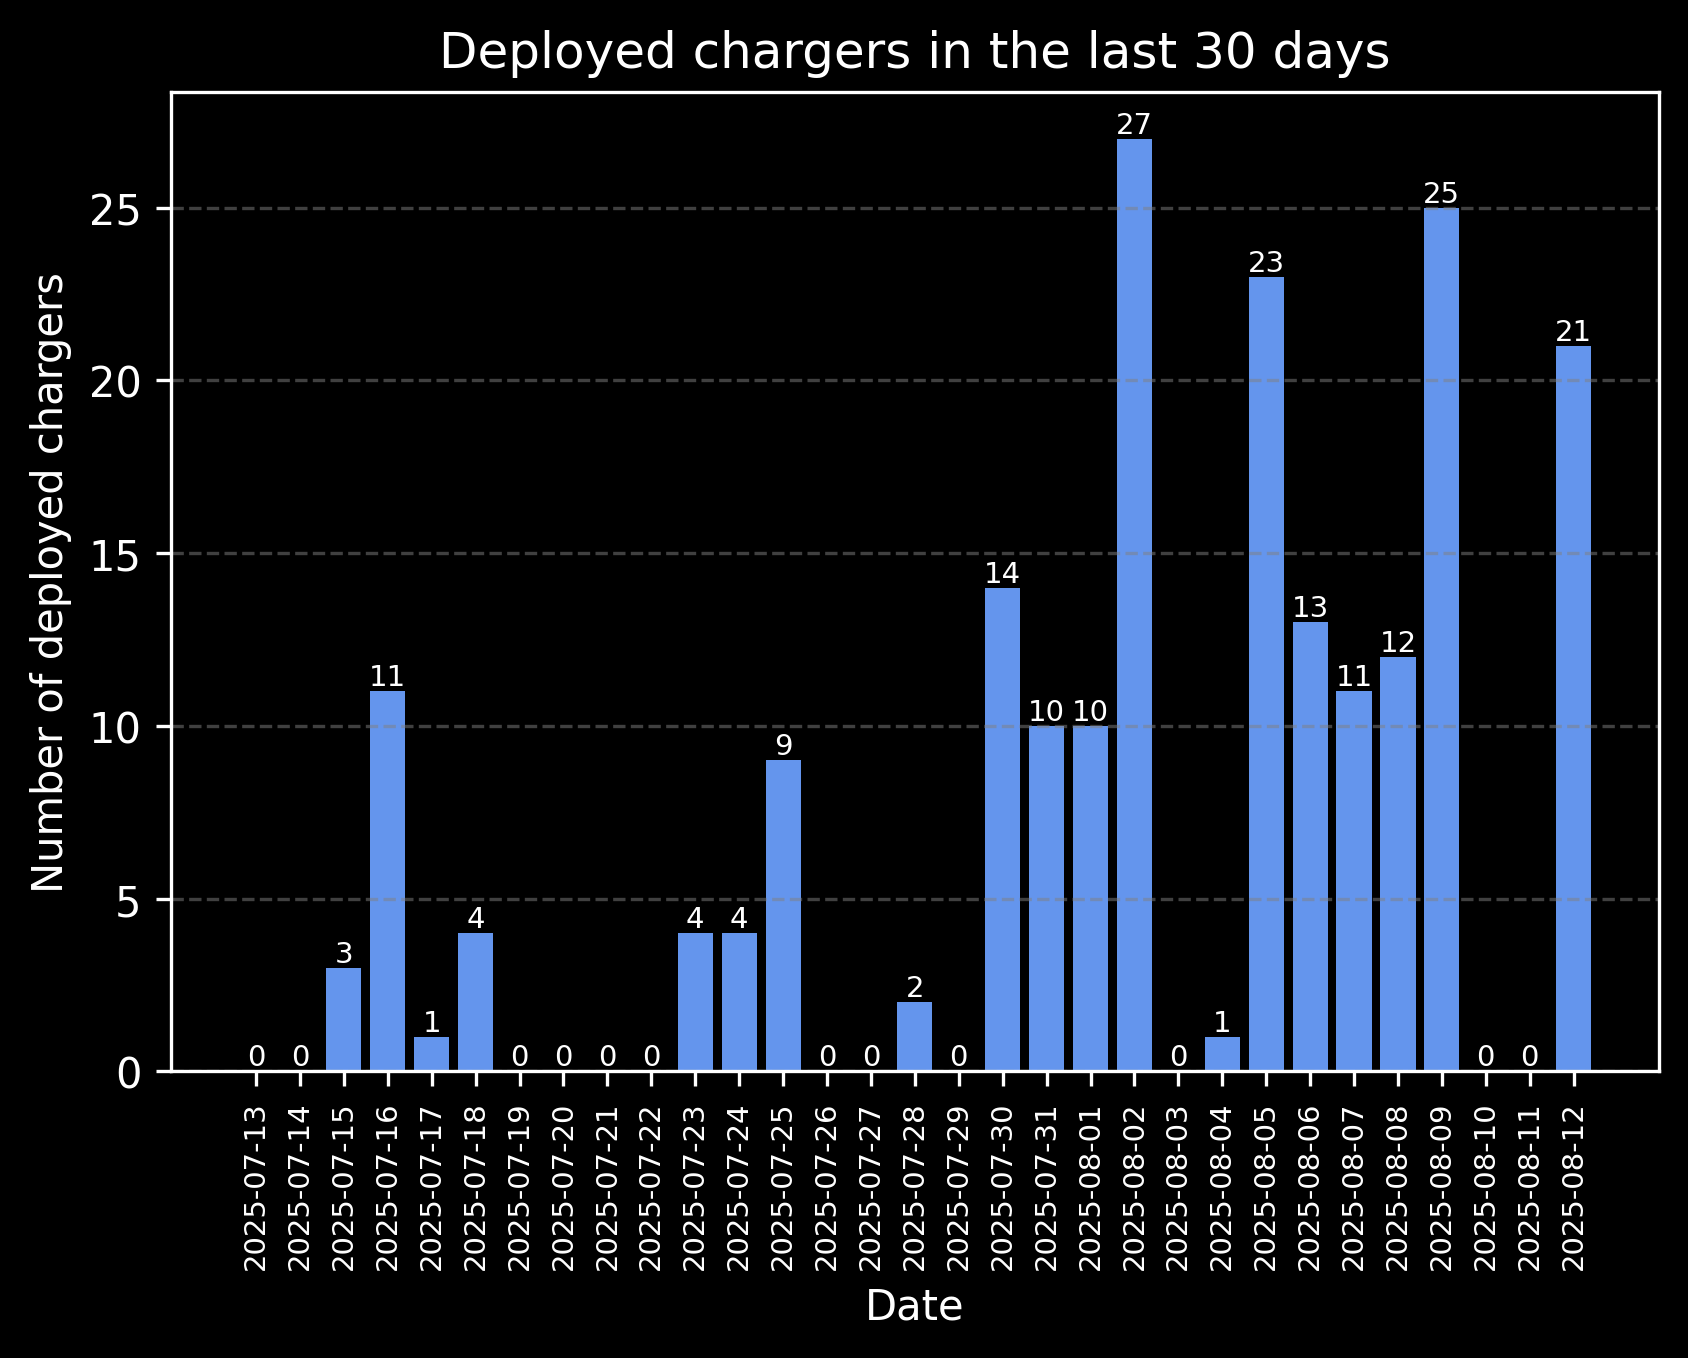
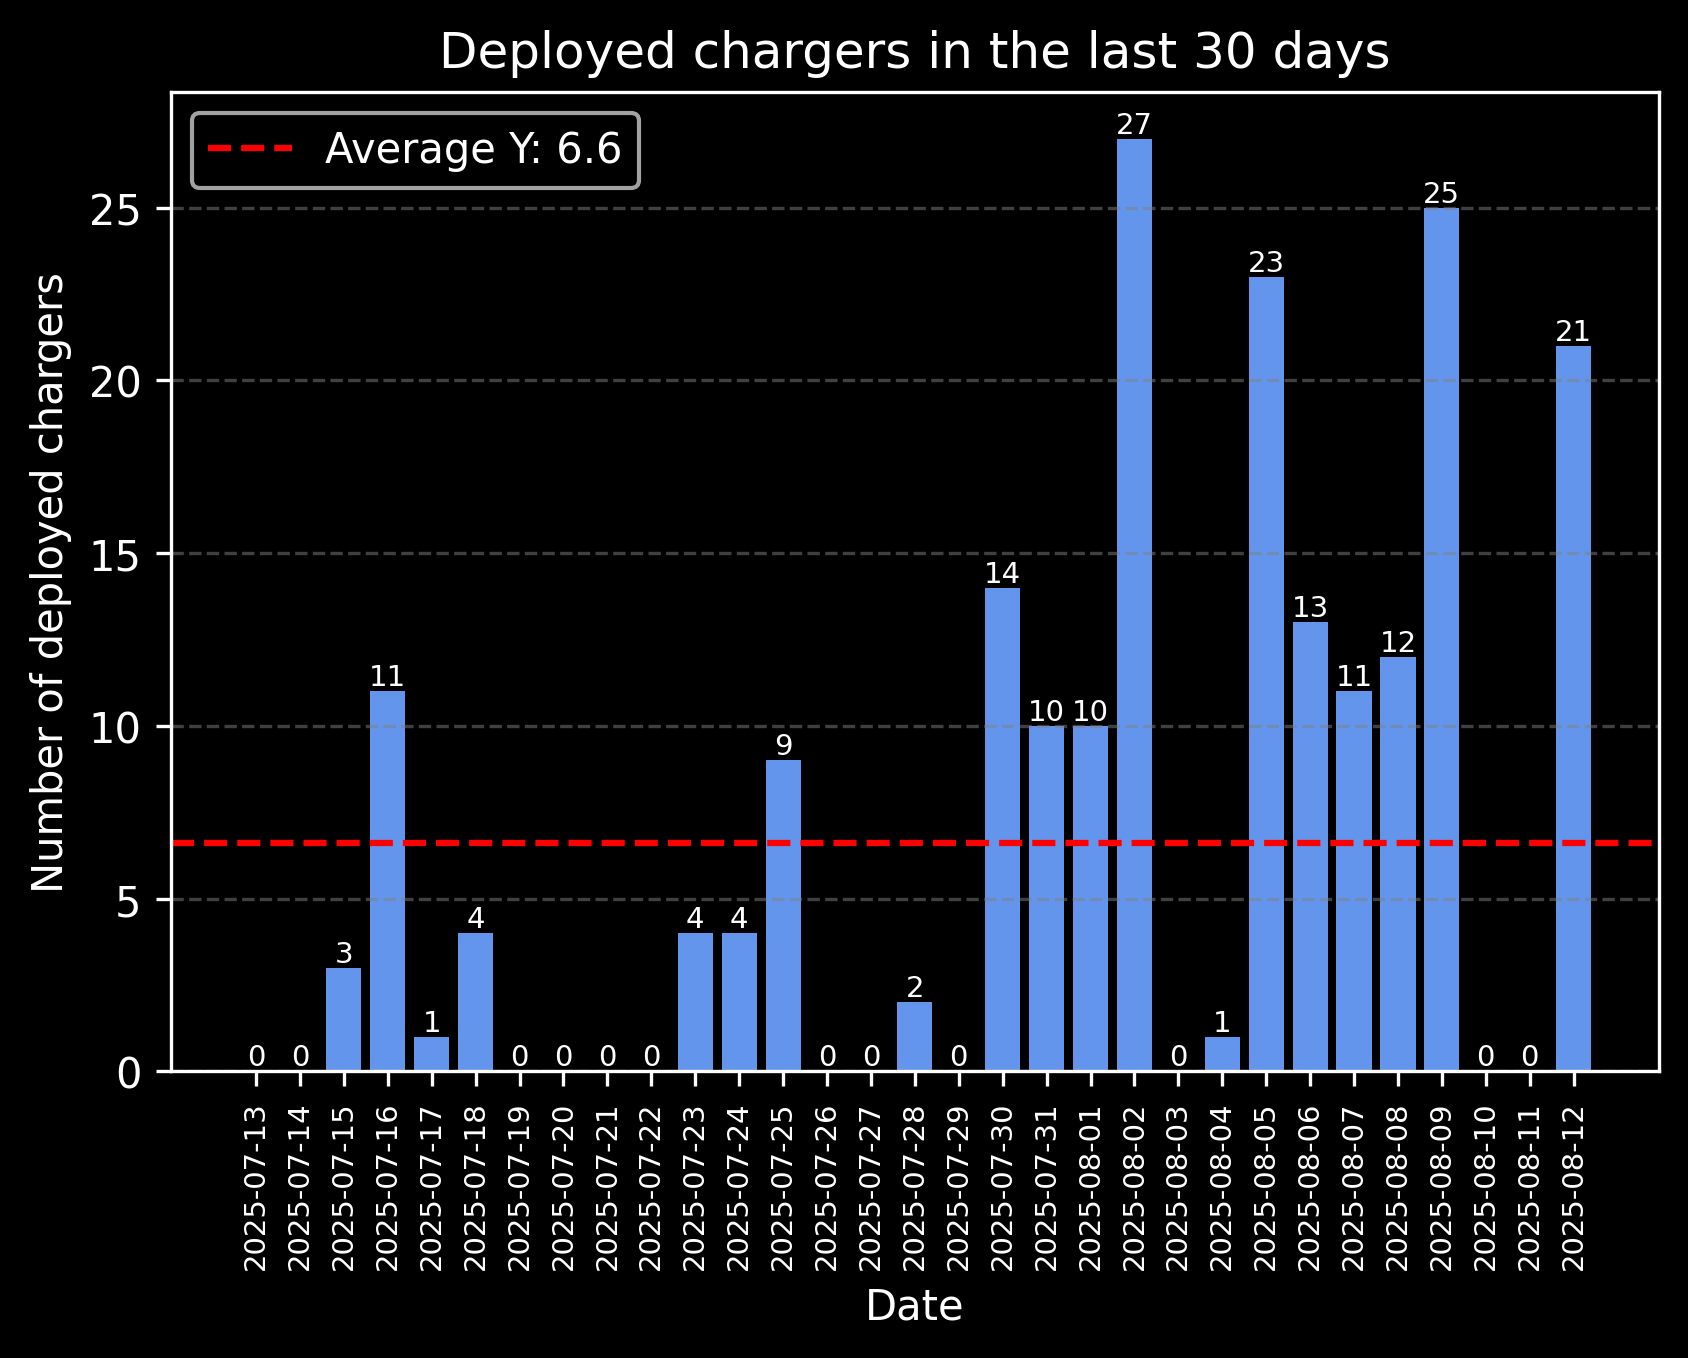
Add average to chart

Changed region(s): [[0.1232, 0.6186, 0.955, 0.6495], [0.1848, 0.0928, 0.3697, 0.1546], [0.1232, 0.0928, 0.154, 0.1237]]

diff --git a/src/charts.py b/src/charts.py
@@ -64,12 +64,15 @@ def generate_charts(conn):
         height = bar.get_height()
         ax.text(bar.get_x() + bar.get_width() / 2, height, f'{height}', ha='center', va='bottom', fontsize=7)
 
+    average_y = np.mean(data['Qnt'])
+    plt.axhline(y=average_y, color='r', linestyle='--', label=f'Average Y: {average_y:.1f}')
     ax.set_title('Deployed chargers in the last 30 days', color='white')
     ax.set_xlabel('Date', color='white')
     ax.set_ylabel('Number of deployed chargers', color='white')
     ax.grid(True, color='gray', linestyle='--', alpha=0.5)
     ax.xaxis.grid(False)
     plt.xticks(fontsize=7, ha='center')
+    plt.legend()
 
     filepath = osp.normpath(f'{projRootPath}/data/outputs/PT_Last30DayDeployedChargers.png')
     plt.savefig(filepath, dpi=300, bbox_inches='tight')
